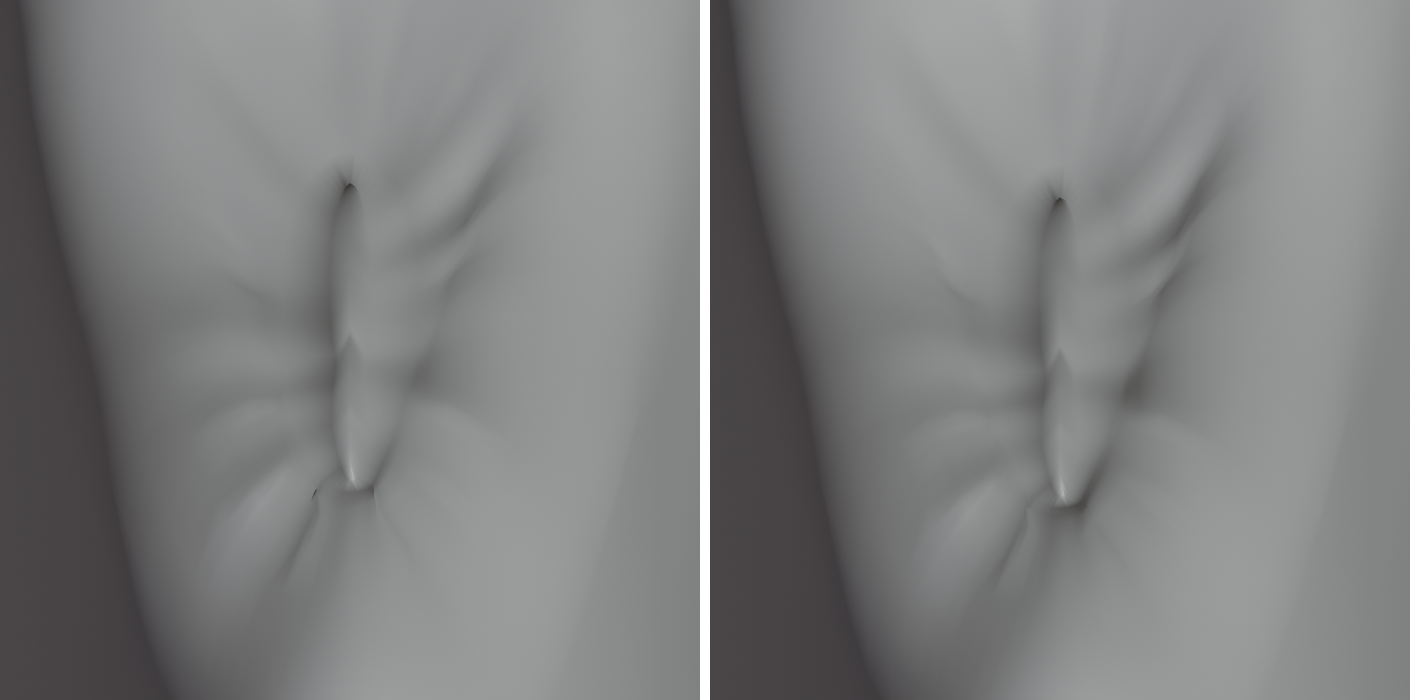
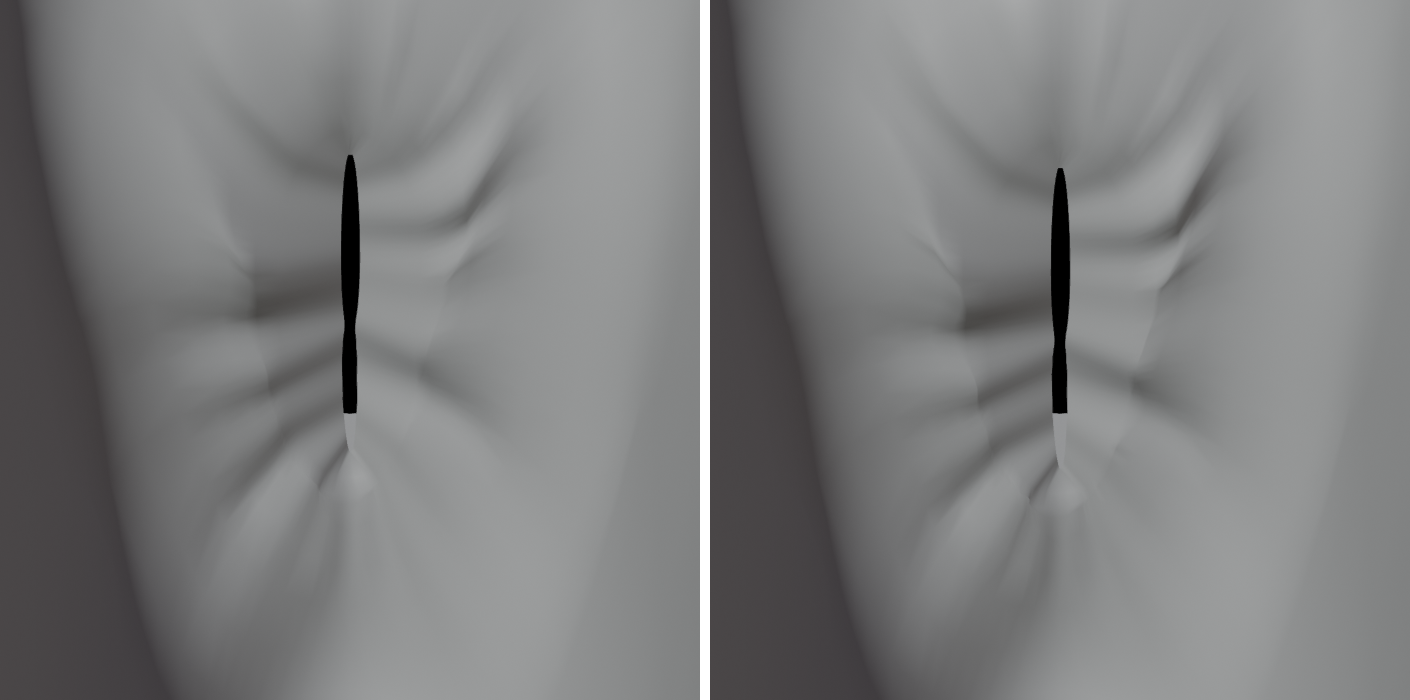
Open the fissure into the anal canal; deeper wrinkles
The slit was zipped shut by skin; it is now an open, narrow fissure whose lips
curl down (LIP_ROLL) and sit close together (LIP_GAP), leading straight into
the canal tube. Wrinkles roughly twice as deep (0.65 mm main, 0.75 mm raised).

Claude-Session: https://claude.ai/code/session_01GkHsFACxGEb36mHX3TdUWk

Changed region(s): [[0.6553, 0.15, 0.8426, 0.78], [0.156, 0.12, 0.3121, 0.63], [0.2184, 0.63, 0.2809, 0.72]]

diff --git a/scripts/build8_raised.py b/scripts/build8_raised.py
@@ -305,7 +305,7 @@ for lip in (0.0, math.pi):                                           # lip with 
         r0 = _rng.uniform(3.4, 4.6)
         FOLDS.append(_fold(lip + _rng.uniform(0.15, math.pi - 0.15), _rng.uniform(0.3, 0.5),
                            _rng.uniform(0.065, 0.085), r0, r0 + _rng.uniform(1.2, 2.2)))
-FUNNEL = 0.3; R_FOLD = 7.4; FOLD_DEPTH = 0.4; SLIT_DEPTH = 0.5; RIDGE = 0.35
+FUNNEL = 0.3; R_FOLD = 7.4; FOLD_DEPTH = 0.75; SLIT_DEPTH = 0.5; RIDGE = 0.35
 # pigment outline: a few low harmonics with random phases (+-~4 %) so it isn't a perfect, mirrored oval
 PIG_WOBBLE = [(k, _rng.uniform(0.008, 0.016), _rng.uniform(0, 2 * math.pi)) for k in (2, 3, 5)]
 
@@ -364,9 +364,13 @@ def surf_point(a_mm, s_mm):
         assert phi < math.radians(150), (a_mm, s_mm)
 
 
+LIP_GAP = 0.4                    # the open fissure's lips sit this close (fraction of the innermost ring's width)
+
+
 def ring_xy(r, th):
     """confocal ellipse with foci at the slit ends; r = AP semi-axis"""
-    return r * math.cos(th), K_LAT * math.sqrt(max(r * r - SLIT * SLIT, 0.0)) * math.sin(th)
+    k = K_LAT * (LIP_GAP if r == RINGS[0] else 1.0)
+    return r * math.cos(th), k * math.sqrt(max(r * r - SLIT * SLIT, 0.0)) * math.sin(th)
 
 
 S_OUT = 18 if len(L) < 27 else (36 if len(L) < 54 else 72)
@@ -457,6 +461,7 @@ for v, (r, th) in info.items():
 # the surface normal points sideways and would pinch the pucker.
 PUFF = 1.0                       # mm, height of the rise at the slit's lips
 SLIT_V = 0.7                     # mm, depth of the V below the lips
+LIP_ROLL = 0.9                   # mm the lips curl down into the open fissure
 relief_of = {}; puff_of = {}
 for v, (r, th) in info.items():
     puff_of[v] = n * (PUFF / 1000 * (1 - ss(RINGS[0], RINGS[-1] - 0.4, max(r, RINGS[0]))) ** 1.3)
@@ -465,7 +470,7 @@ for v, (r, th) in info.items():
         relief = -SLIT_V * sw ** 0.6
         v[pig_layer] = 1.0; v[cre_layer] = 0.9 * sw ** 0.5
     else:
-        relief = fold_amp(r) * (RIDGE - crease(th, r))
+        relief = fold_amp(r) * (RIDGE - crease(th, r)) - LIP_ROLL * (1 - ss(RINGS[0], RINGS[0] + 1.0, r)) ** 1.5
         v[pig_layer] = 1 - ss(5.6, 7.8, pig_r(r, th))
         v[cre_layer] = min(1.0, crease(th, r)) * paint_amp(r)
     relief_of[v] = relief / 1000
@@ -571,6 +576,14 @@ for _ in range(8):
 bm.normal_update()
 _skin_tree = BVHTree.FromBMesh(bm)                # the canal's bottom ring follows the final skin
 ring0 = [_skin_tree.find_nearest(p_)[0] for p_ in ring0]
+# open the fissure: drop the skin that zipped the slit shut, so it leads straight into the anal canal (the canal's
+# bottom ring sits exactly on the lips)
+_n0 = len(bm.verts)
+bmesh.ops.delete(bm, geom=[v for v in slit_verts if v.is_valid and v not in rings[0]], context='VERTS')
+_lipset = {v for v in rings[0] if v.is_valid}       # zipper remnants left by the tip weld
+bmesh.ops.delete(bm, geom=[f for f in bm.faces if all(v in _lipset for v in f.verts)], context='FACES_ONLY')
+report["fissure_open_removed_verts"] = _n0 - len(bm.verts)
+bm.verts.ensure_lookup_table(); bm.normal_update()
 refined_ids = None
 bm.verts.ensure_lookup_table()
 refined_ids = [v.index for v in bm.verts if in_refine(v.co)]

diff --git a/scripts/build8.py b/scripts/build8.py
@@ -305,7 +305,7 @@ for lip in (0.0, math.pi):                                           # lip with 
         r0 = _rng.uniform(3.4, 4.6)
         FOLDS.append(_fold(lip + _rng.uniform(0.15, math.pi - 0.15), _rng.uniform(0.3, 0.5),
                            _rng.uniform(0.065, 0.085), r0, r0 + _rng.uniform(1.2, 2.2)))
-FUNNEL = 0.3; R_FOLD = 7.4; FOLD_DEPTH = 0.35; SLIT_DEPTH = 0.5; RIDGE = 0.3
+FUNNEL = 0.3; R_FOLD = 7.4; FOLD_DEPTH = 0.65; SLIT_DEPTH = 0.5; RIDGE = 0.3
 # pigment outline: a few low harmonics with random phases (+-~4 %) so it isn't a perfect, mirrored oval
 PIG_WOBBLE = [(k, _rng.uniform(0.008, 0.016), _rng.uniform(0, 2 * math.pi)) for k in (2, 3, 5)]
 
@@ -364,9 +364,13 @@ def surf_point(a_mm, s_mm):
         assert phi < math.radians(150), (a_mm, s_mm)
 
 
+LIP_GAP = 0.4                    # the open fissure's lips sit this close (fraction of the innermost ring's width)
+
+
 def ring_xy(r, th):
     """confocal ellipse with foci at the slit ends; r = AP semi-axis"""
-    return r * math.cos(th), K_LAT * math.sqrt(max(r * r - SLIT * SLIT, 0.0)) * math.sin(th)
+    k = K_LAT * (LIP_GAP if r == RINGS[0] else 1.0)
+    return r * math.cos(th), k * math.sqrt(max(r * r - SLIT * SLIT, 0.0)) * math.sin(th)
 
 
 S_OUT = 18 if len(L) < 27 else (36 if len(L) < 54 else 72)
@@ -457,6 +461,7 @@ for v, (r, th) in info.items():
 # the surface normal points sideways and would pinch the pucker.
 PUFF = 0.5                       # mm, height of the rise at the slit's lips
 SLIT_V = 0.7                     # mm, depth of the V below the lips
+LIP_ROLL = 0.9                   # mm the lips curl down into the open fissure
 relief_of = {}; puff_of = {}
 for v, (r, th) in info.items():
     puff_of[v] = n * (PUFF / 1000 * (1 - ss(RINGS[0], RINGS[-1] - 0.4, max(r, RINGS[0]))) ** 1.3)
@@ -465,7 +470,7 @@ for v, (r, th) in info.items():
         relief = -SLIT_V * sw ** 0.6
         v[pig_layer] = 1.0; v[cre_layer] = 0.9 * sw ** 0.5
     else:
-        relief = fold_amp(r) * (RIDGE - crease(th, r))
+        relief = fold_amp(r) * (RIDGE - crease(th, r)) - LIP_ROLL * (1 - ss(RINGS[0], RINGS[0] + 1.0, r)) ** 1.5
         v[pig_layer] = 1 - ss(5.6, 7.8, pig_r(r, th))
         v[cre_layer] = min(1.0, crease(th, r)) * paint_amp(r)
     relief_of[v] = relief / 1000
@@ -571,6 +576,14 @@ for _ in range(8):
 bm.normal_update()
 _skin_tree = BVHTree.FromBMesh(bm)                # the canal's bottom ring follows the final skin
 ring0 = [_skin_tree.find_nearest(p_)[0] for p_ in ring0]
+# open the fissure: drop the skin that zipped the slit shut, so it leads straight into the anal canal (the canal's
+# bottom ring sits exactly on the lips)
+_n0 = len(bm.verts)
+bmesh.ops.delete(bm, geom=[v for v in slit_verts if v.is_valid and v not in rings[0]], context='VERTS')
+_lipset = {v for v in rings[0] if v.is_valid}       # zipper remnants left by the tip weld
+bmesh.ops.delete(bm, geom=[f for f in bm.faces if all(v in _lipset for v in f.verts)], context='FACES_ONLY')
+report["fissure_open_removed_verts"] = _n0 - len(bm.verts)
+bm.verts.ensure_lookup_table(); bm.normal_update()
 refined_ids = None
 bm.verts.ensure_lookup_table()
 refined_ids = [v.index for v in bm.verts if in_refine(v.co)]
